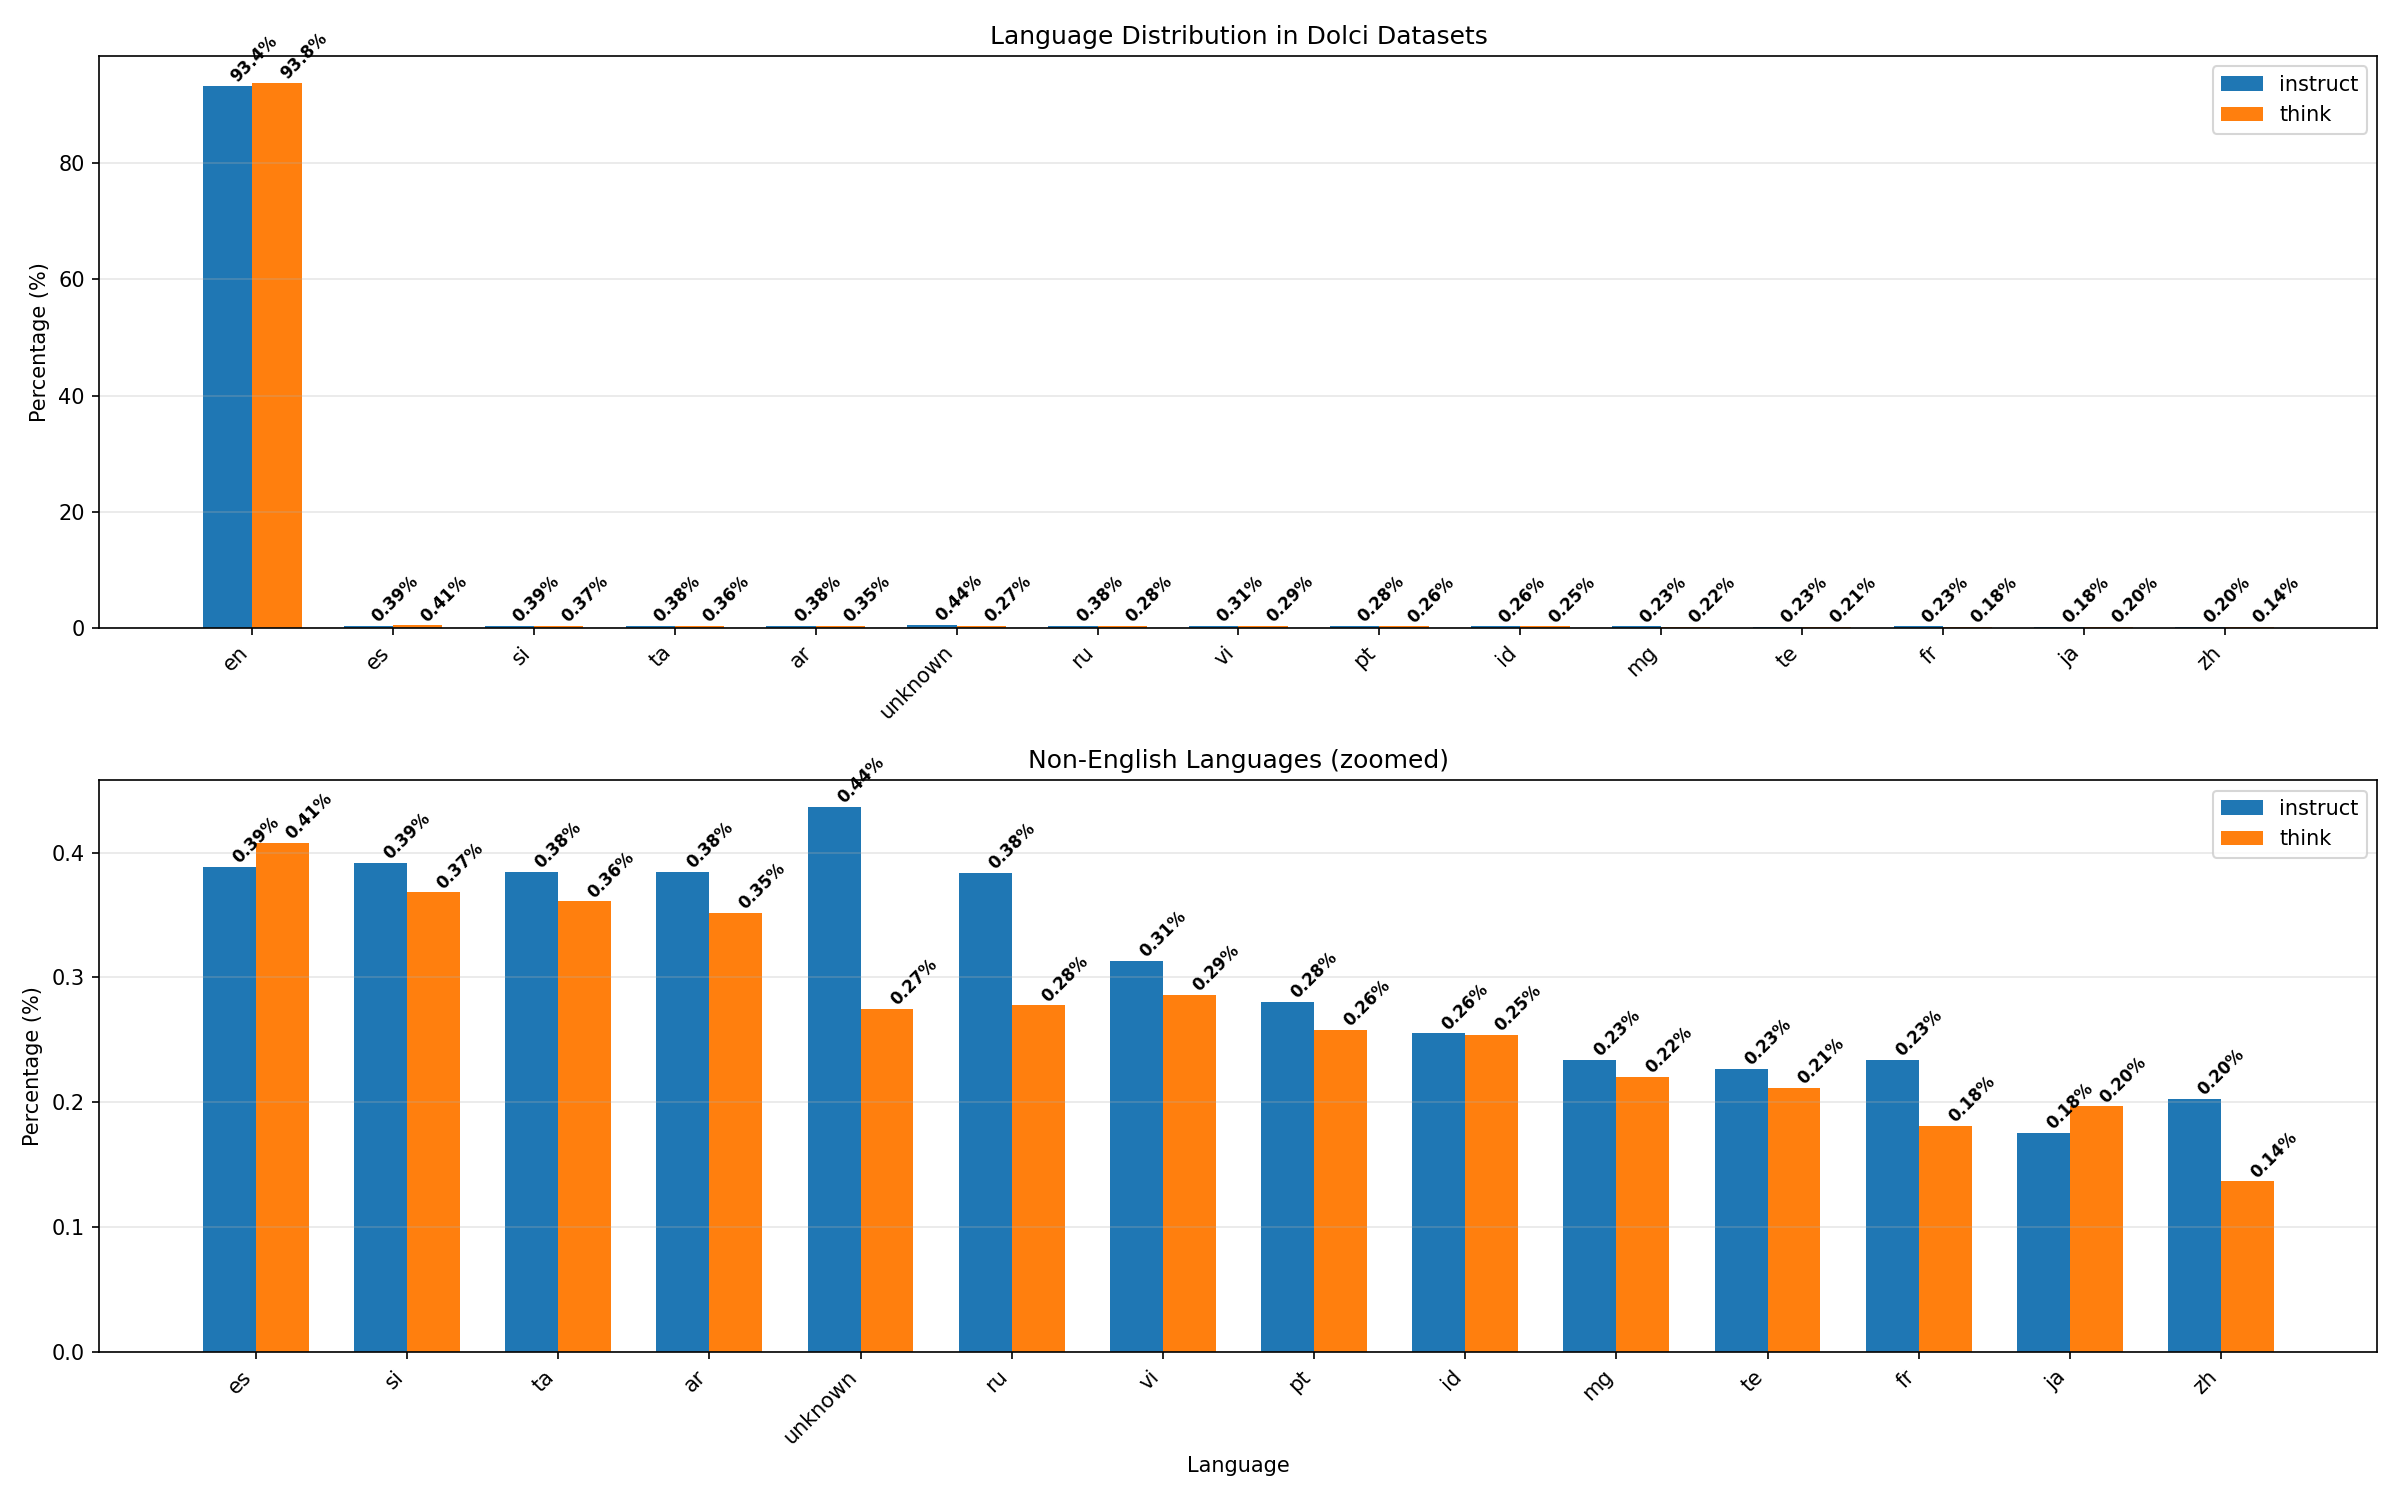
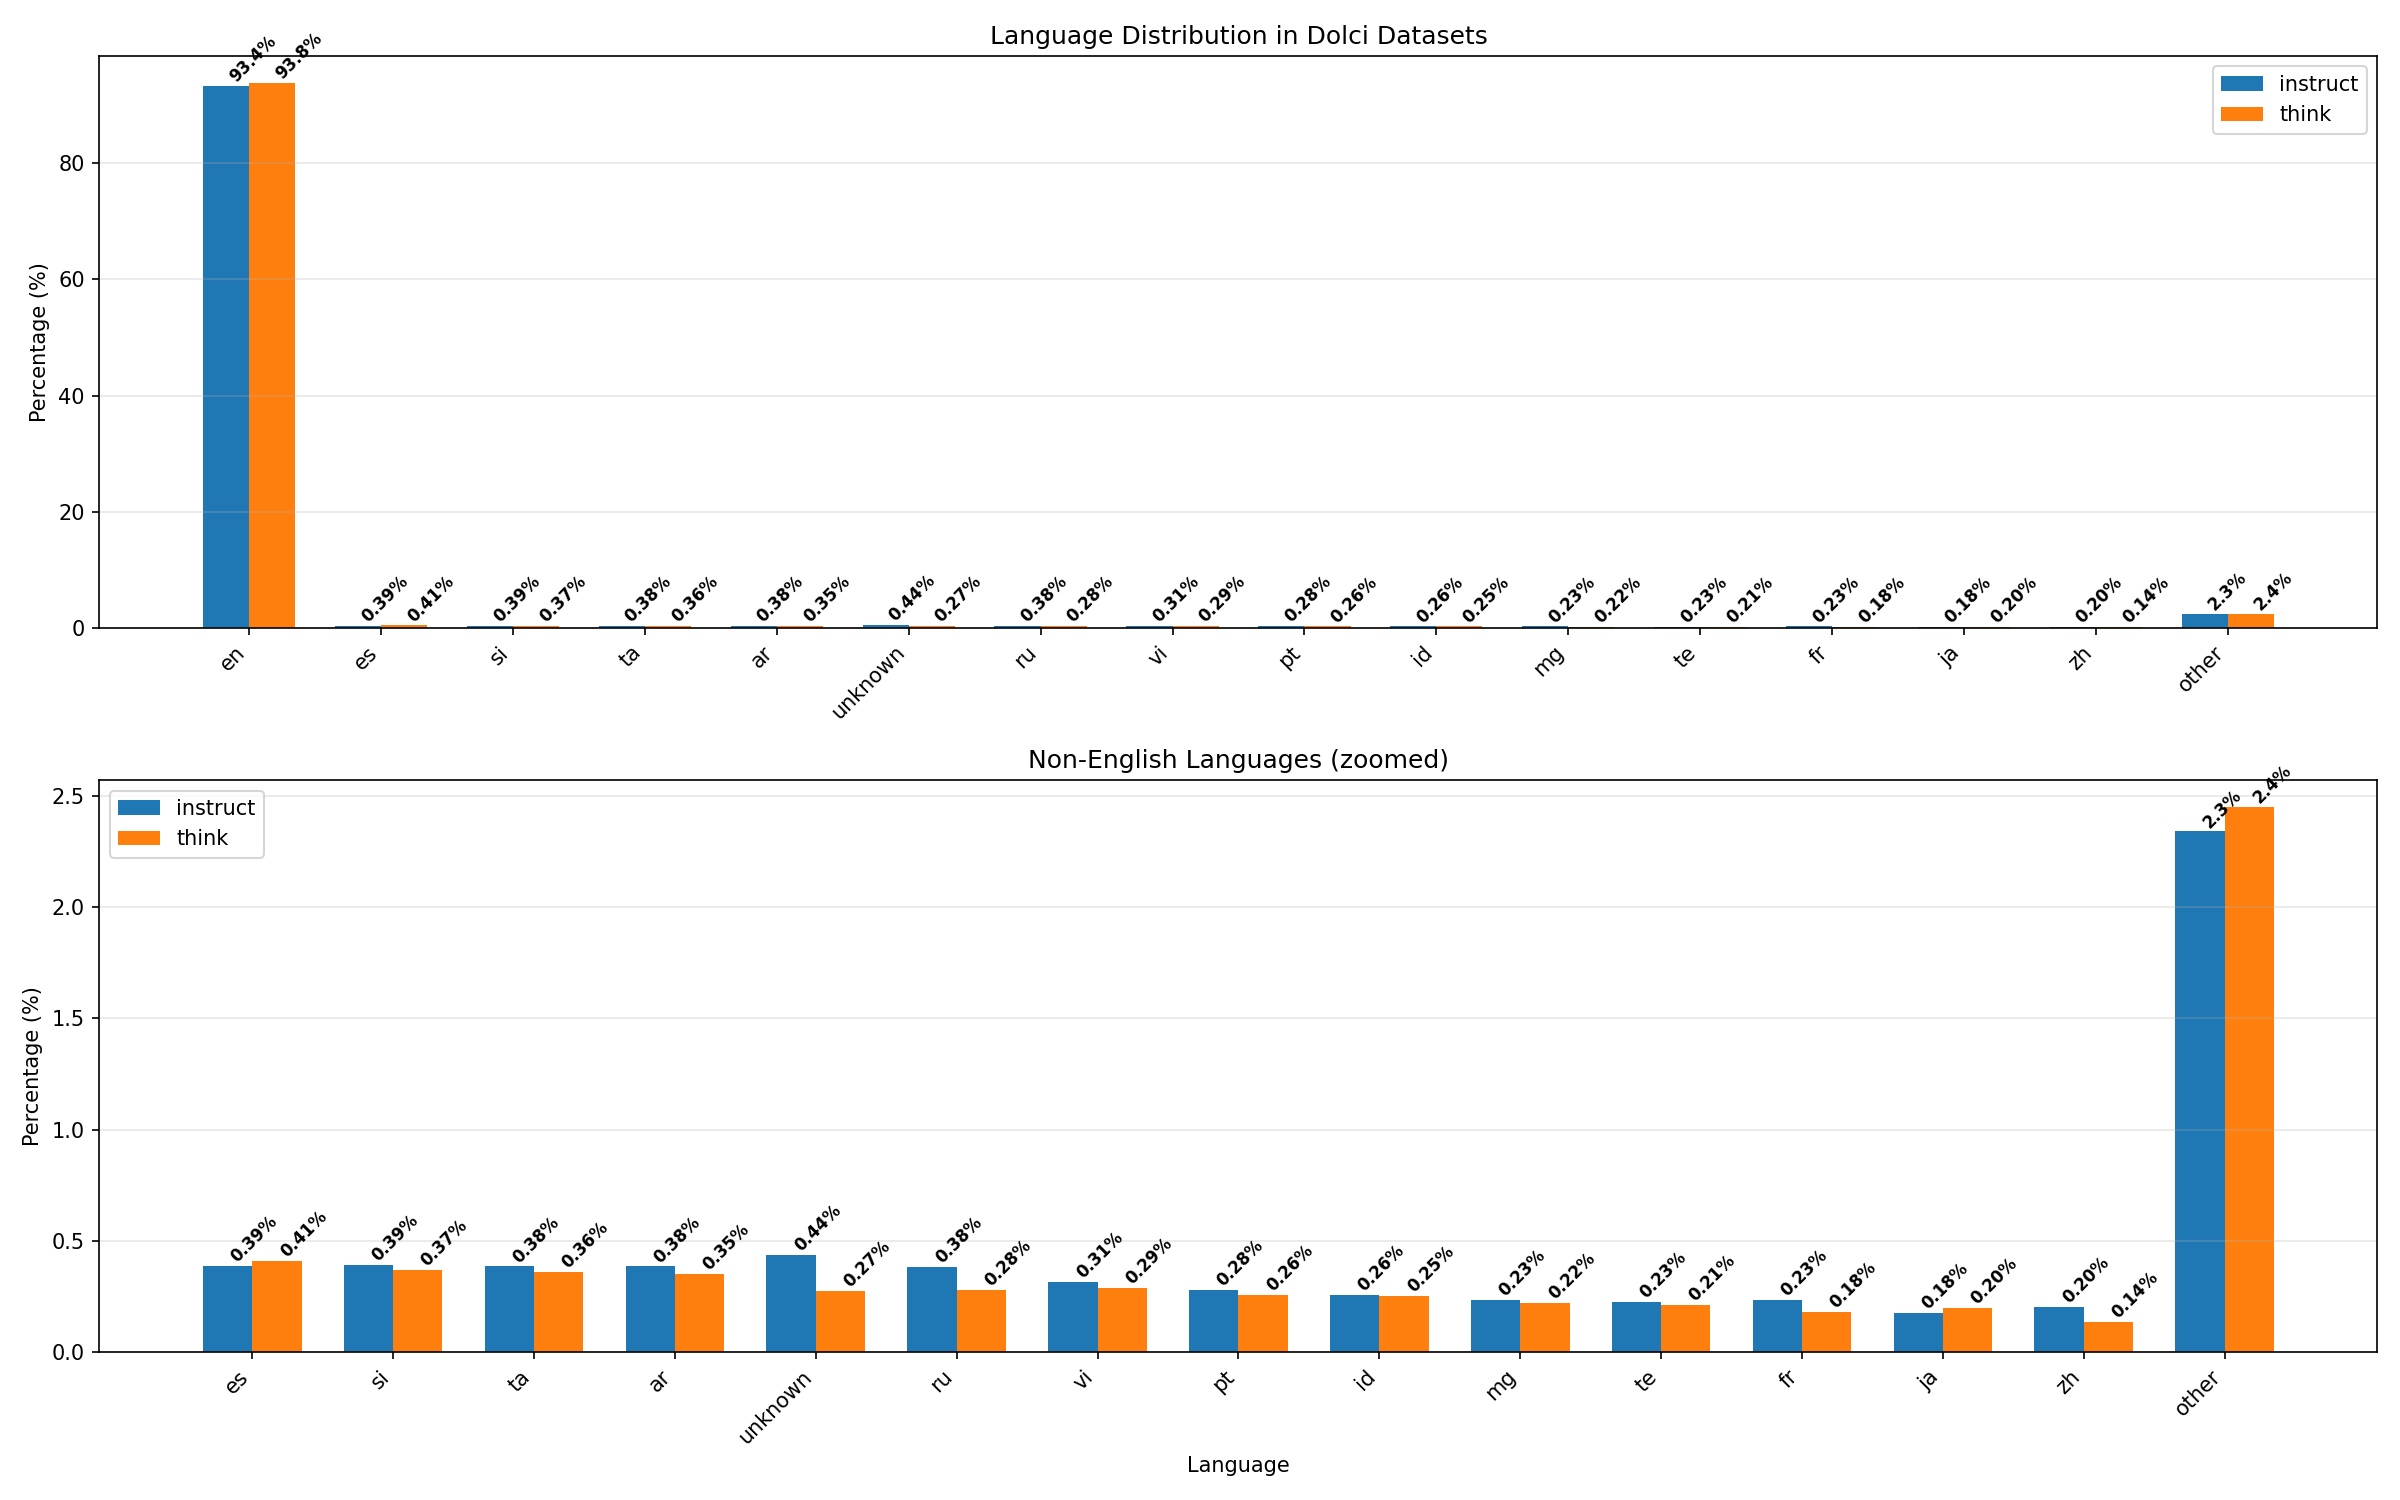
Add 'other' bar aggregating languages outside top 15

diff --git a/oellm/analysis/dolci_distribution/detect_language_distribution.py b/oellm/analysis/dolci_distribution/detect_language_distribution.py
@@ -260,17 +260,26 @@ def plot_language_distribution(
             all_lang_counts[lang] += count
 
     top_langs = [lang for lang, _ in all_lang_counts.most_common(TOP_N_LANGUAGES)]
-    non_en_langs = [l for l in top_langs if l != "en"]
+    # Add "other" to aggregate remaining languages
+    display_langs = top_langs + ["other"]
+    non_en_langs = [l for l in display_langs if l != "en"]
 
     dataset_names = list(results.keys())
     width = 0.35
 
+    # Pre-compute "other" percentage per dataset
+    def get_pcts_with_other(result, langs):
+        pcts = [result["language_percentages"].get(lang, 0) for lang in langs[:-1]]
+        other_pct = round(100.0 - sum(result["language_percentages"].get(l, 0) for l in top_langs), 4)
+        pcts.append(max(other_pct, 0))
+        return pcts
+
     fig, (ax_all, ax_zoom) = plt.subplots(2, 1, figsize=(16, 10))
 
-    # --- Top panel: all languages ---
-    x = np.arange(len(top_langs))
+    # --- Top panel: all languages + other ---
+    x = np.arange(len(display_langs))
     for i, name in enumerate(dataset_names):
-        pcts = [results[name]["language_percentages"].get(lang, 0) for lang in top_langs]
+        pcts = get_pcts_with_other(results[name], display_langs)
         offset = (i - (len(dataset_names) - 1) / 2) * width
         bars = ax_all.bar(x + offset, pcts, width, label=name)
         _add_bar_labels(ax_all, bars, pcts)
@@ -278,14 +287,15 @@ def plot_language_distribution(
     ax_all.set_ylabel("Percentage (%)")
     ax_all.set_title("Language Distribution in Dolci Datasets")
     ax_all.set_xticks(x)
-    ax_all.set_xticklabels(top_langs, rotation=45, ha="right")
+    ax_all.set_xticklabels(display_langs, rotation=45, ha="right")
     ax_all.legend()
     ax_all.grid(axis="y", alpha=0.3)
 
-    # --- Bottom panel: non-English zoom ---
+    # --- Bottom panel: non-English + other zoom ---
     x2 = np.arange(len(non_en_langs))
     for i, name in enumerate(dataset_names):
-        pcts = [results[name]["language_percentages"].get(lang, 0) for lang in non_en_langs]
+        all_pcts = get_pcts_with_other(results[name], display_langs)
+        pcts = [p for p, l in zip(all_pcts, display_langs) if l != "en"]
         offset = (i - (len(dataset_names) - 1) / 2) * width
         bars = ax_zoom.bar(x2 + offset, pcts, width, label=name)
         _add_bar_labels(ax_zoom, bars, pcts)
